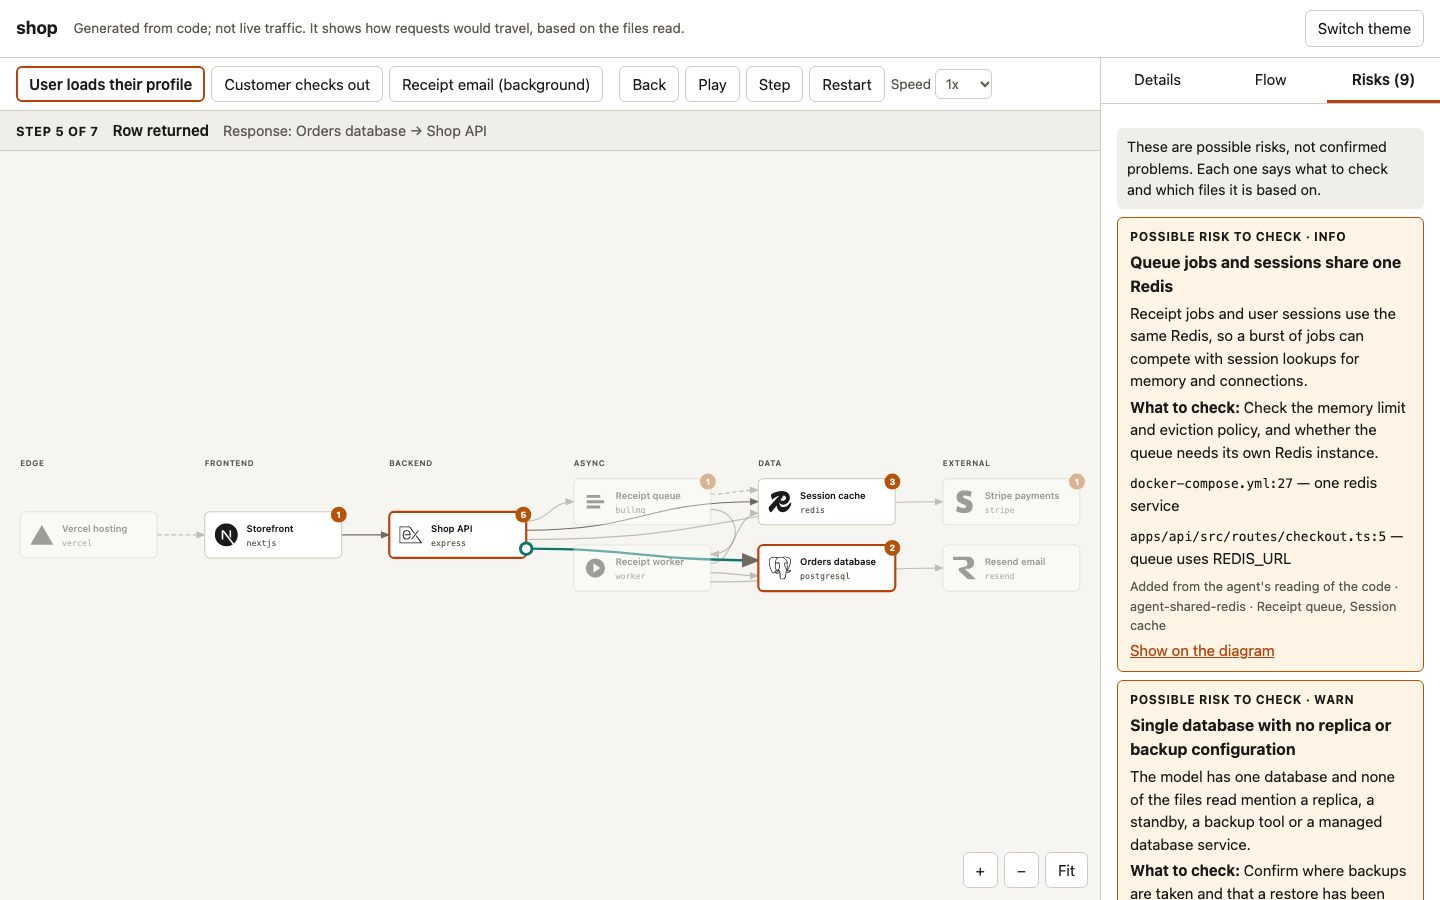
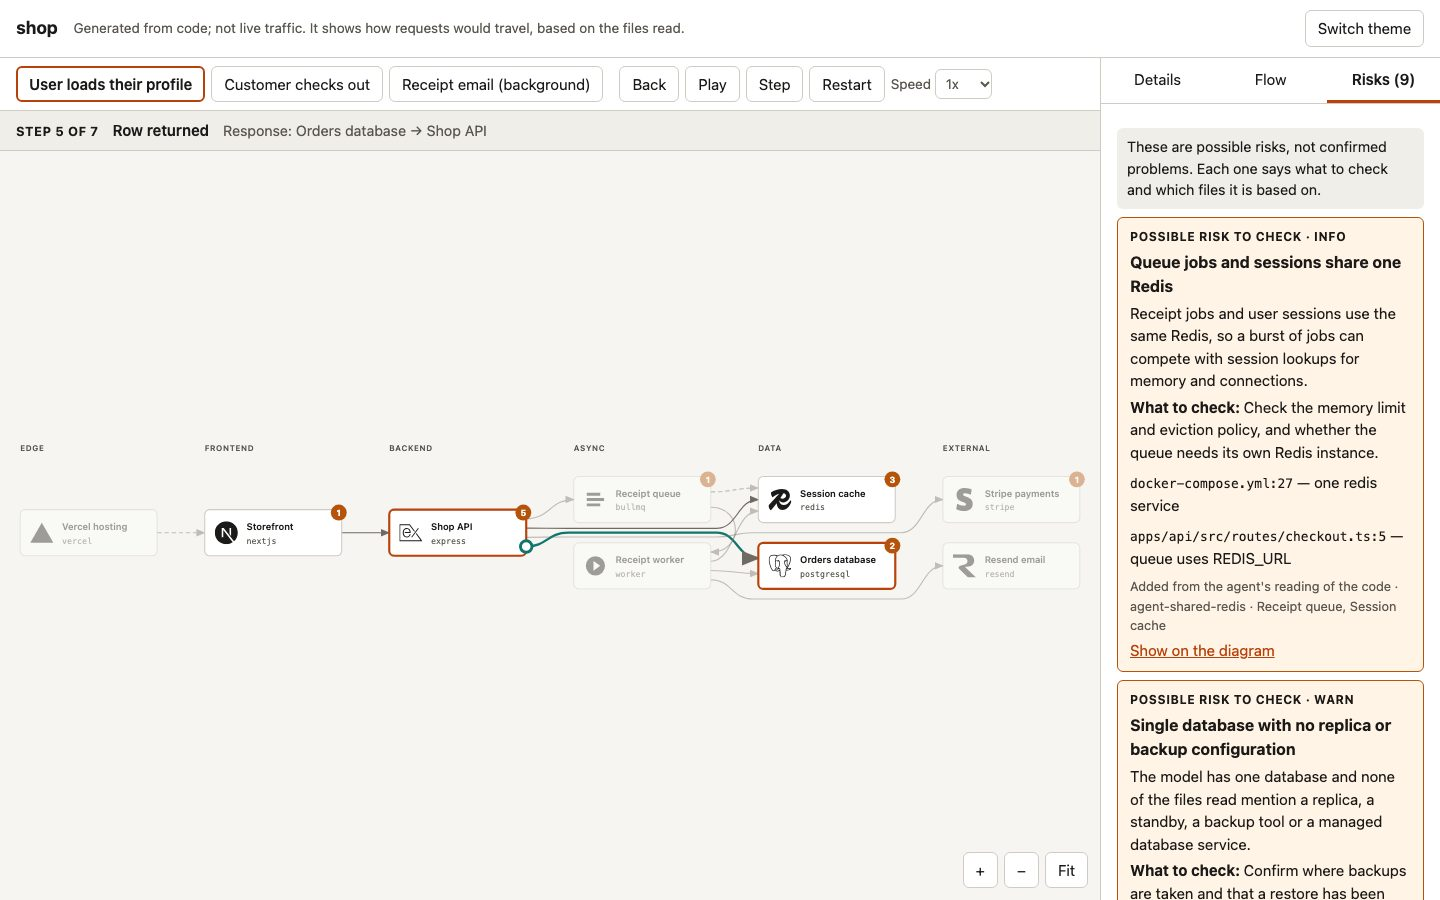
fix(arch-visualize): route edges around components they skip, refresh previews (found by dogfooding)

diff --git a/registry/official/arch-visualize/assets/viewer.html b/registry/official/arch-visualize/assets/viewer.html
@@ -750,7 +750,7 @@
           GX = 66,
           GY = 28,
           PAD = 28,
-          HEAD = 26;
+          HEAD = 44;
         var present = TIERS.filter(function (t) {
           return model.nodes.some(function (n) {
             return n.tier === t;
@@ -822,7 +822,7 @@
           });
         });
         var contentW = PAD * 2 + cols.length * W + Math.max(0, cols.length - 1) * GX;
-        var contentH = PAD * 2 + HEAD + tallest;
+        var contentH = PAD * 2 + HEAD + tallest + 24;
 
         // edge anchors: spread the ends along the side of a node so edges do not stack
         var anchors = {};
@@ -857,6 +857,64 @@
             anchorY[it.e.id + it.end] = pos[nodeId].y + (H * (i + 1)) / (list.length + 1);
           });
         });
+        // Edges that skip a column are routed through the gaps between nodes (or above and below the
+        // column), so a line never passes behind a box and looks like it connects to it.
+        function gapsOf(c) {
+          var nodes = cols[c];
+          var top = pos[nodes[0].id].y;
+          var bottom = pos[nodes[nodes.length - 1].id].y + H;
+          var gaps = [{ key: c + ":top", y: top - 14, open: true, out: -1 }];
+          for (var i = 0; i < nodes.length - 1; i++)
+            gaps.push({
+              key: c + ":" + i,
+              y: (pos[nodes[i].id].y + H + pos[nodes[i + 1].id].y) / 2,
+              open: false,
+            });
+          gaps.push({ key: c + ":bottom", y: bottom + 14, open: true, out: 1 });
+          return gaps;
+        }
+        var routes = {};
+        (function planRoutes() {
+          var usage = {},
+            plan = {};
+          model.edges.forEach(function (e) {
+            if (!pos[e.from] || !pos[e.to] || e.from === e.to) return;
+            var a = pos[e.from].col,
+              b = pos[e.to].col;
+            if (Math.abs(a - b) < 2) return;
+            var sy = anchorY[e.id + "s"],
+              ty = anchorY[e.id + "t"];
+            var list = [];
+            var step = a < b ? 1 : -1;
+            for (var c = a + step; c !== b; c += step) {
+              var want = sy + ((ty - sy) * (c - a)) / (b - a);
+              var best = null;
+              gapsOf(c).forEach(function (g) {
+                if (!best || Math.abs(g.y - want) < Math.abs(best.y - want)) best = g;
+              });
+              (usage[best.key] = usage[best.key] || []).push(e.id);
+              list.push({ col: c, gap: best, dir: step });
+            }
+            plan[e.id] = list;
+          });
+          Object.keys(plan).forEach(function (id) {
+            var pts = [];
+            plan[id].forEach(function (w) {
+              var ids = usage[w.gap.key].slice().sort();
+              var idx = ids.indexOf(id);
+              // above or below a column the lines fan outwards; between two nodes they share the gap
+              var off = w.gap.open
+                ? idx * 12 * w.gap.out
+                : Math.max(-GY / 2 + 6, Math.min(GY / 2 - 6, (idx - (ids.length - 1) / 2) * 6));
+              var left = PAD + w.col * (W + GX) - 8,
+                right = left + W + 16;
+              var y = w.gap.y + off;
+              // enter on one side of the column, stay level while crossing it, leave on the other
+              pts.push(w.dir > 0 ? [left, y] : [right, y], w.dir > 0 ? [right, y] : [left, y]);
+            });
+            routes[id] = pts;
+          });
+        })();
         function edgePath(e) {
           var a = pos[e.from],
             b = pos[e.to];
@@ -904,6 +962,27 @@
               " " +
               ty
             );
+          }
+          if (routes[e.id]) {
+            var pts = [[sx, sy]].concat(routes[e.id], [[tx, ty]]);
+            var d = "M" + sx + " " + sy;
+            for (var k = 1; k < pts.length; k++) {
+              var mx = (pts[k - 1][0] + pts[k][0]) / 2;
+              d +=
+                " C" +
+                mx +
+                " " +
+                pts[k - 1][1] +
+                " " +
+                mx +
+                " " +
+                pts[k][1] +
+                " " +
+                pts[k][0] +
+                " " +
+                pts[k][1];
+            }
+            return d;
           }
           var dx = (tx - sx) / 2;
           return (
